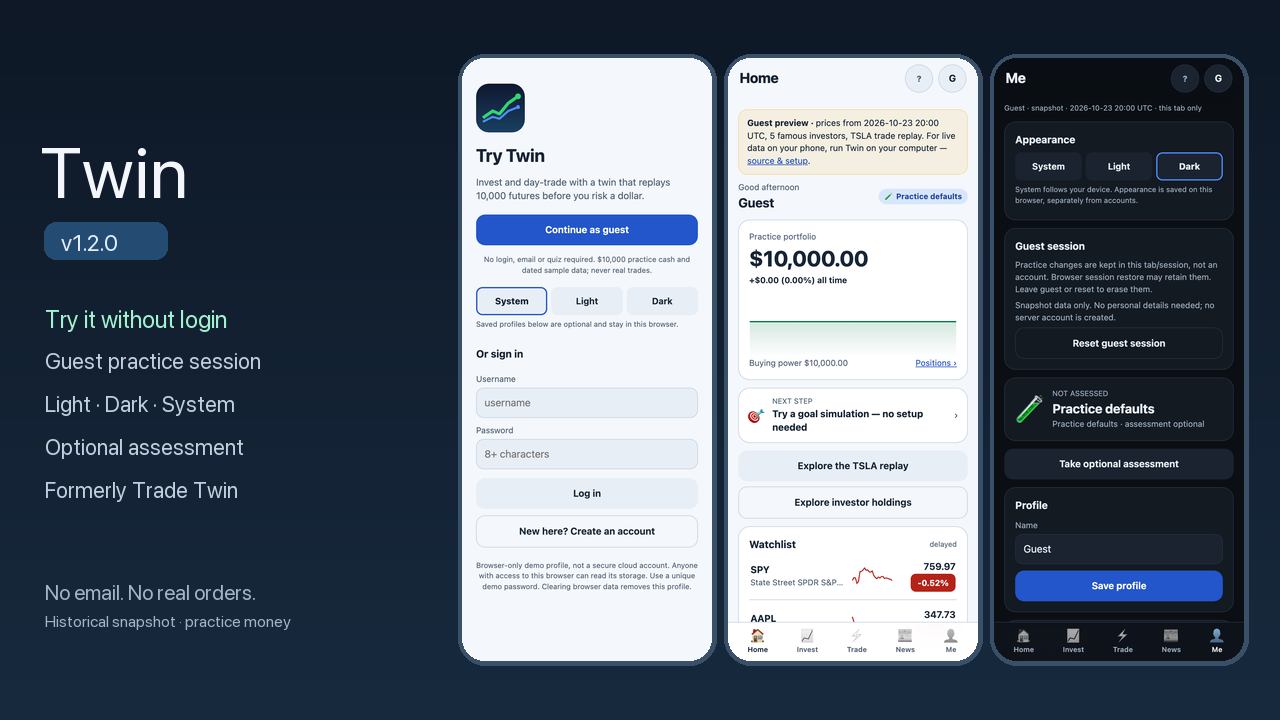
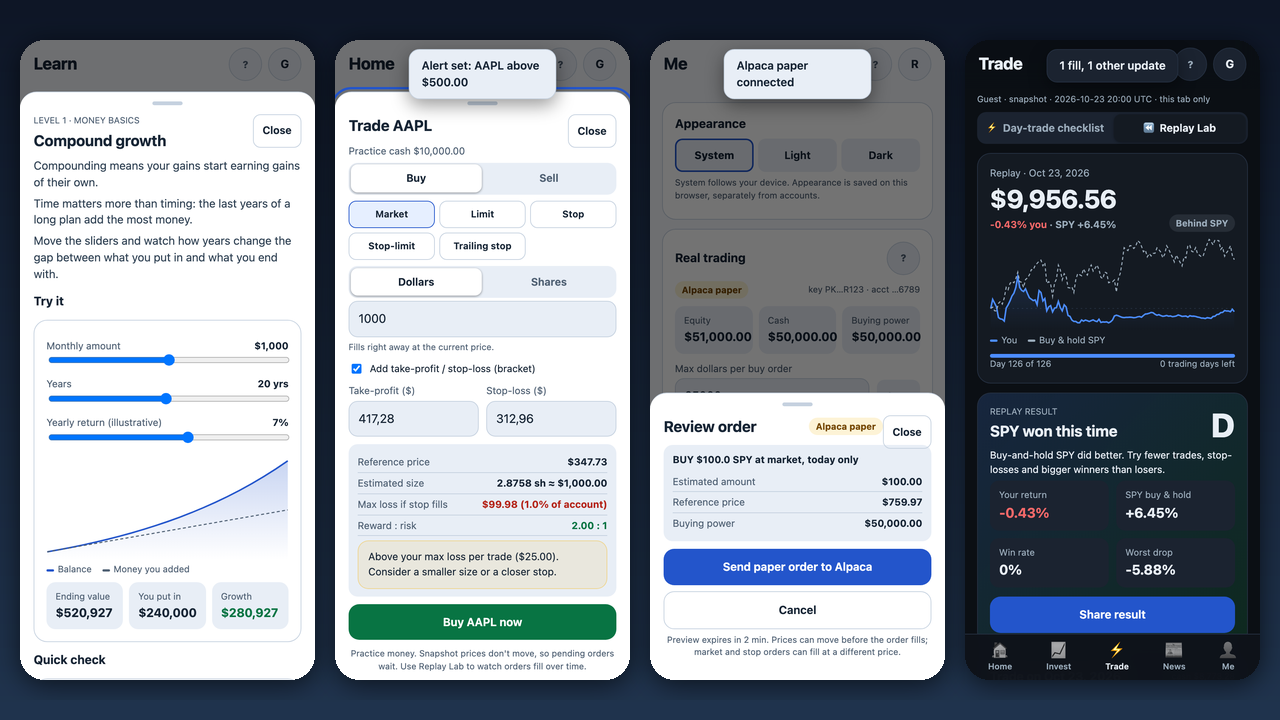
Twin 1.3: new card image and description (Academy, Replay Lab, optional Alpaca trading)

diff --git a/index.html b/index.html
@@ -526,19 +526,20 @@
           </article>
           
           <article class="project-card" data-category="Apps">
-            <img src="./assets/projects/twin.png" alt="Twin v1.2: Continue as guest welcome screen, light-mode practice portfolio and dark-mode appearance settings" class="project-card-image" loading="lazy" decoding="async">
+            <img src="./assets/projects/twin.png" alt="Twin v1.3: Twin Academy lesson, bracket order ticket, Alpaca paper order review and Replay Lab result" class="project-card-image" loading="lazy" decoding="async">
             <div class="project-content">
               <span class="project-category">Apps</span>
               <h3 class="project-title">Twin</h3>
-              <p class="project-description">Investing practice app: continue as a guest with a $10,000 paper portfolio, historical goal simulations and SEC 13F research. No real orders, no financial advice.</p>
+              <p class="project-description">Learn, practice, then optionally trade for real: 12 interactive Academy lessons, pro order types with brackets, a bar-by-bar Replay Lab and guest invite links. Real orders only via your own Alpaca account on the local server, with preview, caps and live-mode confirmation. Not financial advice.</p>
               <div class="project-tags">
                 <span class="tag">paper trading</span>
                 <span class="tag">guest mode</span>
-                <span class="tag">SEC 13F</span>
+                <span class="tag">interactive lessons</span>
+                <span class="tag">Alpaca API</span>
                 <span class="tag">PWA</span>
               </div>
               <div class="project-links">
-                <a class="project-link" href="https://juwpegatron.github.io/projects/twin/?v=1.2.0" target="_blank" rel="noopener noreferrer">App</a>
+                <a class="project-link" href="https://juwpegatron.github.io/projects/twin/?v=1.3.0" target="_blank" rel="noopener noreferrer">App</a>
                 <a class="project-link" href="https://juwpegatron.github.io/projects/twin/web.html" target="_blank" rel="noopener noreferrer">Web</a>
                 <a class="project-link" href="https://juwpegatron.github.io/projects/twin/mobile.html" target="_blank" rel="noopener noreferrer">Mobile</a>
               </div>
